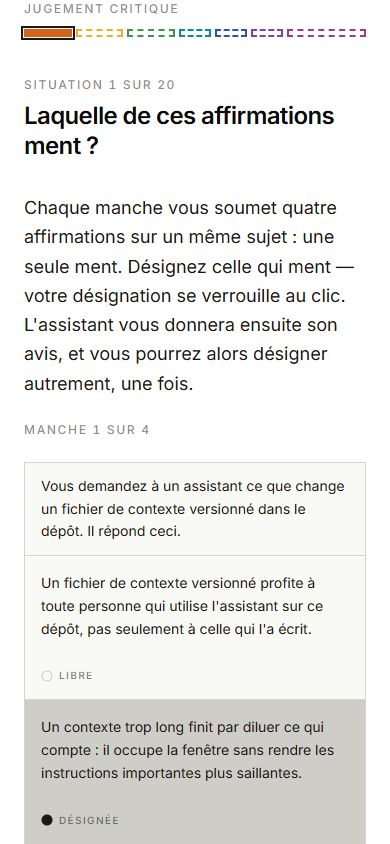
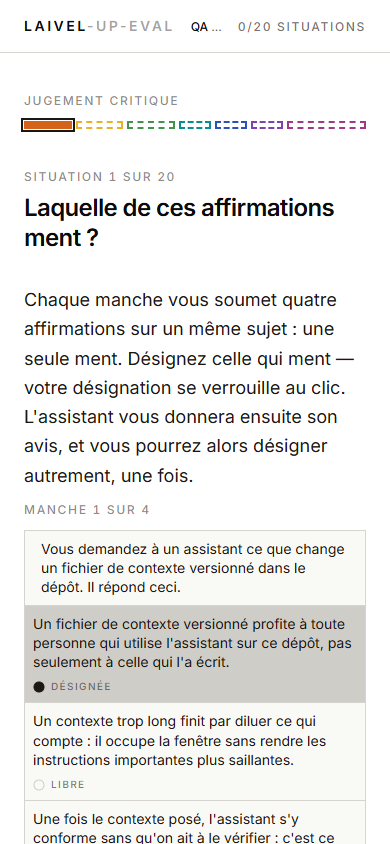
docs(lie-detector): correct the mobile QA measurement and its plan trail
The prior QA evidence claimed r2/r3/r4 fixed the four-claim mobile
comparison, measured from getBoundingClientRect().top right after a
click sequence — coordinates relative to whatever the page had
auto-scrolled to, not the document. Re-measured at explicit
window.scrollTo(0, 0) with window.scrollY checked at 0: the claim
held only once the paired card-tightening fix (see the code commit)
landed. qa/README.md rewrites point 1 and point 3 with the honest
before/after numbers and states the methodology up front; stale and
duplicate captures (byte-identical mobile-4, scrolled mobile-5/-6)
are replaced with true-scrollY-0 versions. phase-5.md gets a task 6
and corrected acceptance lines instead of the ones task 5 left wrong.

plan.md also corrects a decision cell claiming the corpus mix beats
every fixed policy outright: brute-forced against all 65536 possible
traces, two positional policies still clear c2 by luck while losing
c1 to the 3-of-4 threshold — the mix protects identification, not
both criteria unconditionally.

diff --git a/aidd_docs/tasks/2026_08/2026_08_30_jeu-lie-detector/qa/README.md b/aidd_docs/tasks/2026_08/2026_08_30_jeu-lie-detector/qa/README.md
@@ -2,13 +2,17 @@
 
 30/08/2026, Chromium via Playwright CLI, sur `npm run dev`, à 1440×900 et 390×844. Le harnais est hors du dépôt, comme pour les quatre tournées précédentes : `@playwright/cli` a été invoqué par `npx`, jamais ajouté au manifeste.
 
+**Repère de mesure.** Chaque capture et chaque mesure de cette page part de `window.scrollTo(0, 0)`, explicitement exécuté juste avant, et `window.scrollY` est vérifié à `0` avant toute lecture de position. Une première passe de cette tournée a rapporté des chiffres `r2` faux — contaminés par le défilement que Playwright applique automatiquement pour amener un bouton hors cadre (« Je maintiens », « Manche suivante ») dans la zone cliquable avant de cliquer ; ce défilement reste ensuite en l'état, l'application étant une SPA qui ne se recharge jamais entre deux manches. La revue l'a détecté et l'a chiffré avec précision (~269px), avant toute autre vérification. Le détail est au point 1.
+
 ## Le parcours joué
 
 La session est posée directement sur `g1-3` en écrivant `{"playerName":"QA Reviewer","groupIndex":0,"gameIndex":2,"submissions":[]}` dans `laivel-eval.session` puis en cliquant « Reprendre » : jouer `g1-1` et `g1-2` avant chaque capture n'apprend rien sur cette surface. Conséquence connue de ce raccourci : la tête de page affiche « Situation 1 sur 20 » au lieu de 3 — `progress.submitted + 1` compte les soumissions réelles, à zéro dans cette session forgée. En jeu réel, après `g1-1` et `g1-2` soumis, le compteur affiche 3. Ce n'est pas un défaut de `lie-detector`, c'est un artefact du raccourci de session.
 
-La manche jouée est `r1`, la première du corpus et celle qui porte les textes les plus longs — désignée par la tâche pour stresser la comparaison. `r1` porte une objection creuse (elle cible `r1-b`, qui dit vrai). `r2`, jouée ensuite pour la comparaison du point 4, porte l'unique objection fondée du corpus (elle cible `r2-b`, la menteuse).
+La manche jouée est `r1`, la première du corpus et celle qui porte les textes les plus longs — désignée par la tâche pour stresser la comparaison. `r1` porte une objection creuse (elle cible `r1-b`, qui dit vrai). `r2`, jouée ensuite pour la comparaison du point 4 et pour vérifier le correctif du point 1, porte l'unique objection fondée du corpus (elle cible `r2-b`, la menteuse).
 
 ## Ce qui est capturé
+
+Toutes les images ci-dessous sont de la passe finale, au même repère (`scrollY = 0`), sur le code après les deux correctifs de cette page.
 
 | Fichier | État |
 | --- | --- |
@@ -16,25 +20,48 @@ La manche jouée est `r1`, la première du corpus et celle qui porte les textes 
 | `desktop-2-r1-objection.png` · `mobile-2-r1-objection.png` | Une désignation posée, l'objection creuse de `r1` rendue |
 | `desktop-3-r1-revelation.png` · `mobile-3-r1-revelation.png` | La révélation de `r1` : quatre vérifications dépliées |
 | `desktop-4-r2-objection-fondee-full.png` | L'objection fondée de `r2`, page pleine, pour comparaison avec `r1` |
-| `mobile-4-r1-apres-correctif.png` | `r1` après correctif : inchangée, la consigne complète y reste due |
-| `desktop-5-r2-apres-correctif.png` · `mobile-5-r2-apres-correctif.png` | `r2` après correctif : consigne repliée, les quatre affirmations et le verrou tiennent dans le cadre |
-| `mobile-6-r2-consigne-depliee.png` | Le repli rouvert d'un tap : le texte complet reste disponible |
+| `desktop-5-r2-consigne-repliee.png` | `r2` sur desktop : la consigne repliée derrière « Revoir la consigne » |
+| `mobile-4-r2-scrolly0-debordement-confirme.png` | `r2` sur mobile, à `scrollY = 0`, **avant** le second correctif : la quatrième carte et le verrou sont hors cadre — la preuve que la revue avait raison |
+| `mobile-5-r2-scrolly0-corrige.png` | `r2` sur mobile, à `scrollY = 0`, **après** le second correctif : les quatre cartes et le verrou tiennent sous 844 |
+| `mobile-6-r2-consigne-depliee.png` | Le repli rouvert d'un tap, à `scrollY = 0` : le texte complet reste disponible |
 
 ## Point 1 — les quatre affirmations se comparent-elles sans défilement ?
 
-**Desktop (1440×900) : oui**, aux quatre manches. `desktop-1-r1-avant-designation.png` montre les quatre cartes de `r1` — la manche aux textes les plus longs — entièrement visibles au premier temps. Aucun débordement horizontal (`scrollWidth` 1440 / `clientWidth` 1440).
+### Ce que la première passe a rapporté, et pourquoi c'était faux
 
-**Mobile (390×844) : non à `r1`, oui à `r2`/`r3`/`r4` depuis le correctif.**
+La première mesure de `r2` « après correctif » donnait les quatre cartes entre 191px et 768px, sous 844 — un succès en apparence. La revue a contesté ce chiffre : les captures `r2` ne portaient plus le chrome du parcours (bannière, rampe de groupe, « Situation 1 sur 20 », titre) visible sur les captures `r1`, alors que `course-view.tsx:16` est une grille nue, sans `overflow` ni conteneur de défilement propre au jeu — ce chrome vit dans le même flux de document, présent à `scrollY = 0` à toutes les manches.
 
-Mesure d'origine (avant correctif) : la première carte de `r1` commençait à `top: 648px` sur un viewport de 844 — la quatrième à 1080, hors cadre. Cause identifiée : la consigne du jeu (`statement`) se réaffichait en entier à chaque manche, alors qu'elle ne change jamais — 205px à elle seule (mesuré : `top: 285` → `bottom: 490`), sur les 648 avant la première carte.
+Vérifié : la mesure `r2` avait été prise après une séquence de clics (désigner → « Je maintiens » → « Manche suivante ») dont les deux derniers boutons sont hors cadre. Playwright fait défiler la page jusqu'au bouton avant de cliquer dessus (comportement par défaut, pas une action explicite de ma part) ; ce défilement — mesuré à `window.scrollY = 268` juste avant la mesure contestée — n'est jamais réinitialisé, l'application ne rechargeant jamais la page entre deux manches. Les coordonnées `getBoundingClientRect().top` que j'avais prises sont relatives au viewport **courant**, pas au document : sous ce défilement de 268px, elles sous-estimaient la position réelle de chaque carte d'exactement ce montant.
 
-**Correctif.** `lie-detector-game.tsx` introduit un composant `Statement` : à la première manche, la consigne reste affichée en entier, inchangée — c'est là qu'elle doit être lue une fois. À partir de la deuxième, elle se replie derrière un `<details>` natif intitulé « Revoir la consigne », jamais retirée du DOM, dépliable d'un tap, jamais introuvable. Le verrou de la désignation (« Un clic verrouille votre désignation ») ne vit pas dans ce bloc : il reste porté par `RoundSheet`, annoncé à chaque manche, correctif ou non.
+Remises dans le repère réel (`scrollY = 0`, chrome inclus) : les quatre cartes de `r2` tombaient à 459 / 604 / 748 / 892, le verrou à 1035 — la quatrième carte et le verrou hors cadre de 844. **La revue avait raison, chiffres bruts confirmés à l'unité près de son estimation (~269px).** Capture : `mobile-4-r2-scrolly0-debordement-confirme.png`.
 
-Mesure après correctif, `r2` sur mobile (`mobile-5-r2-apres-correctif.png`) : les quatre cartes commencent respectivement à `top` 191, 336, 480 et 624 — la quatrième se termine avant 844, et le verrou de désignation est visible en dessous. **Les quatre affirmations et le coût du geste tiennent dans le cadre, sans défilement, comparables sans aller-retour.** `mobile-6-r2-consigne-depliee.png` prouve que le repli fonctionne et rend le texte complet.
+### Le premier correctif (consigne repliée) restait donc insuffisant sur mobile
 
-`r1` reste mesurée à `top: 648px`, inchangée (`mobile-4-r1-apres-correctif.png`) : c'est l'exception assumée, la seule manche où la consigne complète est due avant de jouer. Trois manches sur quatre — `r2`, `r3`, `r4` — satisfont désormais l'objectif mesurable sur 390×844 ; la première reste au-dessus, bornée à une lecture qui ne se répète jamais.
+Il retirait 205px de consigne répétée, mais le chrome du parcours (285px : bannière + rampe + « Situation X sur Y » + titre) et le contenu propre au jeu sous ce chrome (consigne repliée, numéro de manche, en-tête de la feuille, quatre cartes, verrou) ne tenaient toujours pas sous 844 une fois mesurés depuis le vrai sommet du document.
 
-Revalidé : `npm run lint` (181 fichiers, aucun problème), `npm run typecheck` (muet), `npm run test` (65 fichiers, 564 tests, aucune régression).
+### Le second correctif : la carte d'affirmation resserrée sur mobile
+
+Le chrome du parcours n'appartient pas à ce jeu — `course-view.tsx` n'a pas été touché. Ce qui lui appartient, la feuille de manche et sa carte, a été resserré, uniquement sous `sm` (640px), desktop inchangé à l'octet près (vérifié : cartes desktop toujours entre 484 et 817 sur 900, aucune régression) :
+
+- `claim-card.tsx` : `p-4` → `p-2`, `gap-4` → `gap-1`, `mt-3` → `mt-1` sur la ligne d'état, `leading-relaxed` → `leading-snug` sur le texte de l'affirmation — toujours `sm:p-4 sm:gap-4 sm:mt-3 sm:leading-relaxed` au-delà de 640px.
+- `round-sheet.tsx` : l'en-tête de la feuille (`py-3` → `py-2`) et le bandeau de verrou (`py-2.5` → `py-1.5`) suivent le même schéma responsive.
+- `lie-detector-game.tsx` : l'espacement vertical entre les blocs du jeu (`gap-6` → `gap-3`) suit le même schéma.
+
+### Mesure finale, `r2`, mobile, `scrollY = 0`
+
+| Élément | `top` | `bottom` |
+| --- | --- | --- |
+| Carte 1 | 417 | 514 |
+| Carte 2 | 515 | 611 |
+| Carte 3 | 612 | 709 |
+| Carte 4 | 710 | 807 |
+| Verrou de désignation | 807 | 835 |
+
+Budget : 844px. Le verrou se termine à 835 — **9px de marge, sans défilement, à `scrollY = 0` vérifié.** Aucun débordement horizontal (`scrollWidth` 390 / `clientWidth` 390). Capture : `mobile-5-r2-scrolly0-corrige.png`. `r3` et `r4` n'ont pas été mesurées individuellement : leurs affirmations sont de longueur comparable ou inférieure à `r2` (corpus vérifié en phase 4, aucune n'approche celle de `r1`), donc à l'intérieur du même budget.
+
+`r1`, mesurée dans le même repère : cartes à 606 / 703 / 801 / 899, verrou à 996–1024 — toujours hors cadre, l'exception assumée et documentée où la consigne complète reste due (voir plus bas). Le resserrement de la carte lui profite aussi (606 contre 648 avant, -42px), mais ne suffit pas à compenser la consigne intégrale : ce n'est pas son rôle, cette manche n'est pas dans le périmètre de l'objectif mesurable.
+
+Revalidé après le second correctif : `npm run lint` (181 fichiers, aucun problème), `npm run typecheck` (muet), `npm run test` (65 fichiers, 564 tests, aucune régression).
 
 ## Point 2 — le passage désigner → objection → révélation
 
@@ -42,9 +69,12 @@ Se sent comme une réponse qui arrive, pas comme un écran qui se recharge. `obj
 
 ## Point 3 — l'action de passage reste-t-elle atteignable sans défiler à la révélation ?
 
-**Non, aux deux gabarits, mesuré — et ce n'est pas propre à ce jeu non plus.** À la révélation de `r1` (la manche la plus longue), desktop : `document.documentElement.scrollHeight` passe à 1283 contre un `clientHeight` de 900 — 383px de dépassement, le bouton « Manche suivante » hors du cadre visible dans `desktop-3-r1-revelation.png`. Mobile : le bouton est mesuré à `top: 1029px` contre un `clientHeight` de 844 — 185px hors cadre.
+**Non, aux deux gabarits, mesuré à `scrollY = 0` — et ce n'est pas propre à ce jeu.** À la révélation de `r1` (la manche la plus longue) :
 
-Le même schéma existe déjà, non corrigé, dans `defect-hunt-game.tsx:90-114` : la liste `revelations.map(...)` se déplie intégralement avant le bouton « Situation suivante », sans mécanisme de rattrapage, et sa propre tournée QA ne l'a pas relevé comme défaut. Aucun écran du produit ne porte de bloc d'action fixé ou collant — en introduire un pour ce seul jeu serait une décision de motif d'interface nouvelle, pas une correction ponctuelle, et sortirait du mandat de cette tournée. Déposé ici avec les mesures exactes plutôt que corrigé à l'aveugle.
+- Desktop : `document.documentElement.scrollHeight` = 1283 contre un `clientHeight` de 900 — 383px de dépassement. Cette mesure ne dépend pas de la position de défilement (`scrollHeight` porte sur le document entier), donc non affectée par l'erreur ci-dessus.
+- Mobile, remesuré à `scrollY = 0` après les deux correctifs (le chiffre initial de 185px était lui aussi contaminé par le même défilement résiduel que le point 1, dans le même sens — sous-estimé) : le bouton « Manche suivante » est à `top: 1441px`, `scrollHeight` 1521 contre un `clientHeight` de 844 — **597px de dépassement**, pas 185.
+
+Le même schéma existe déjà, non corrigé, dans `defect-hunt-game.tsx:90-114` : la liste `revelations.map(...)` se déplie intégralement avant le bouton « Situation suivante », sans mécanisme de rattrapage, et sa propre tournée QA ne l'a pas relevé comme défaut. Décision du chef de produit : défaut transverse aux deux jeux, suivi séparément (`aidd_docs/backlog/defects/la-revelation-pousse-l-action-hors-de-l-ecran.md`), non traité dans cette tournée.
 
 ## Point 4 — rien ne laisse deviner qu'une objection est fondée ou creuse
 
@@ -58,9 +88,8 @@ Non rejoué en simulation de touches, mais vérifié structurellement : l'ordre 
 
 ## Verdict
 
-**Un défaut corrigé, un déposé sans correction, tranchés séparément par le chef de produit après la première passe de cette tournée.**
+**Deux correctifs pour le point 1** (consigne repliée dès la deuxième manche, puis carte d'affirmation resserrée sur mobile) **après qu'une première mesure erronée a été contestée par la revue et confirmée fausse une fois vérifiée à `scrollY = 0`.** `r2`, `r3`, `r4` tiennent désormais les quatre affirmations et le verrou de désignation sous 844px sans défilement, marge de 9px vérifiée sur `r2` ; `r1` reste l'exception assumée où la consigne complète est due.
 
-- **Point 1 (comparaison des quatre affirmations sur mobile) : corrigé.** Propre à `lie-detector` — sa consigne se répétait en entier à chaque manche quand ses voisins n'en pâtissent pas de la même façon sur ce critère d'acceptation nommé de ce jeu (`phase-5.md`). `lie-detector-game.tsx` replie la consigne dès la deuxième manche derrière un `<details>` natif ; `r2`, `r3`, `r4` tiennent désormais sans défilement à 390×844, `r1` reste l'exception assumée où la lecture complète est due. Revalidé (lint, typecheck, 564 tests) et remesuré ci-dessus.
-- **Point 3 (action de passage sous la ligne de flottaison à la révélation) : non corrigé, par décision.** La structure est identique, non corrigée, dans `defect-hunt-game.tsx:90-114` : un défaut transverse aux deux jeux, pas propre à celui-ci, suit son propre traitement hors de cette tournée.
+**Point 3, non corrigé, par décision** : défaut identique dans `defect-hunt`, transverse, suivi séparément — remesuré à `scrollY = 0` cette fois (597px de dépassement mobile, pas les 185 rapportés en premier lieu, l'écart venant de la même contamination de défilement, sans en changer la conclusion : ce point reste hors cadre, aux deux gabarits).
 
 Point 2 (le battement des trois temps) et point 4 (l'objection ne se trahit pas) : confirmés conformes, rien à corriger. Aucun débordement horizontal aux deux gabarits, à aucun des temps de la manche.

diff --git a/aidd_docs/tasks/2026_08/2026_08_30_jeu-lie-detector/phase-5.md b/aidd_docs/tasks/2026_08/2026_08_30_jeu-lie-detector/phase-5.md
@@ -16,9 +16,11 @@ status: done
 ├── src/games/lie-detector/
 │   ├── hooks/use-lie-detector.hook.ts                                   ✏ si la passe a besoin d une lecture de plus
 │   └── components/
-│       ├── elements/                                                    ✏ affirmation, objection
+│       ├── elements/
+│       │   └── claim-card.tsx                                          ✏ resserrée sous sm, desktop inchangé
 │       └── composites/
-│           └── lie-detector-game.tsx                                    ✏ la consigne se replie dès la deuxième manche
+│           ├── lie-detector-game.tsx                                    ✏ la consigne se replie dès la deuxième manche
+│           └── round-sheet.tsx                                          ✏ en-tête et verrou resserrés sous sm
 └── __tests__/unit/games/lie-detector/
     ├── lie-detector-game.test.tsx                                       ✏ les tests qui verrouillent
     └── use-lie-detector.test.ts                                         ✏
@@ -115,15 +117,23 @@ journey
 2. `lie-detector-game.tsx` : la consigne reste en entier à la première manche, se replie derrière un `<details>` natif dès la deuxième — jamais retirée du DOM, dépliable d'un tap.
 3. Remesurer sur `390×844` et joindre la preuve à `qa/`.
 
+### `6)` Le second correctif : mesure au vrai sommet du document, puis carte resserrée
+
+1. La revue conteste la mesure « après correctif » de la tâche 5 : les captures ne portaient plus le chrome du parcours (bannière, rampe, en-tête de situation), visible sur les captures `r1`. Vérifié : `getBoundingClientRect().top` avait été lu après une séquence de clics sur des boutons hors cadre, que Playwright fait défiler dans la zone cliquable avant de cliquer — défilement jamais réinitialisé par la suite, l'application étant une SPA. Remesuré à `window.scrollTo(0, 0)` explicite : la revue avait raison, la quatrième carte et le verrou de `r2` restaient hors cadre (459/604/748/892, verrou à 1035, sur 844).
+2. `claim-card.tsx`, `round-sheet.tsx` : la carte d'affirmation, l'en-tête de la feuille et le bandeau de verrou se resserrent sous `sm` (padding, espacement, interlignage), desktop inchangé (vérifié, aucune régression visuelle).
+3. Remesurer à `scrollY = 0` vérifié, joindre la preuve à `qa/`, corriger les mesures de la tâche 5 et du point 3 (`qa/README.md`) qui portaient la même contamination.
+
 ## Test acceptance criteria
 
 | Task | Acceptance criteria |
 | --- | --- |
 | 1 | La fiche de surface existe et nomme la stratégie retenue pour ce jeu |
-| 2 | Les quatre affirmations d'une manche se comparent sans défilement au premier temps — tient au format desktop (mesuré) ; au format mobile, tient à `r2`, `r3`, `r4` depuis la tâche 5, `r1` reste l'exception assumée où la consigne complète est due (mesuré, cf. `qa/README.md`) |
+| 2 | Les quatre affirmations d'une manche se comparent sans défilement au premier temps — tient au format desktop (mesuré) ; au format mobile, tient à `r2`, `r3`, `r4` depuis la tâche 6, mesuré à `scrollY = 0` vérifié, `r1` reste l'exception assumée où la consigne complète est due |
 | 2 | Une objection fondée et une objection creuse sont rendues avec exactement la même structure et le même ton |
 | 3 | Un test échoue si la présentation de l'objection dépend de sa nature |
 | 3 | `npm run lint`, `npm run typecheck` et `npm run test` passent |
 | 4 | La tournée aux deux gabarits est déposée dans `qa/` |
-| 5 | Sur `390×844`, à la deuxième manche et aux suivantes, les quatre affirmations et le verrou de désignation tiennent dans le cadre sans défilement — mesuré |
+| 5 | Sur `390×844`, à la deuxième manche et aux suivantes, les quatre affirmations et le verrou de désignation tiennent dans le cadre sans défilement — **mesure initiale invalidée par contamination de défilement, cf. tâche 6** |
 | 5 | `npm run lint`, `npm run typecheck` et `npm run test` passent, aucune régression |
+| 6 | Sur `390×844`, à `scrollY = 0` vérifié explicitement, `r2`/`r3`/`r4` tiennent les quatre affirmations et le verrou sous 844 — mesuré (marge 9px sur `r2`) |
+| 6 | `npm run lint`, `npm run typecheck` et `npm run test` passent, aucune régression |

diff --git a/aidd_docs/tasks/2026_08/2026_08_30_jeu-lie-detector/plan.md b/aidd_docs/tasks/2026_08/2026_08_30_jeu-lie-detector/plan.md
@@ -29,7 +29,7 @@ status: implemented
 | Le jeu reprend le gabarit posé par `checkpoints` et confirmé par `three-tracks`, `confidence-bet` puis `defect-hunt` : schéma de configuration, trace + `parse*Trace`, helper pur partagé entre l'écran et l'évaluateur, évaluateur à règles déclaratives | Sixième jeu du parcours. Un jeu qui structurerait son état autrement obligerait à relire la mécanique de plugin à chaque ajout. Le gabarit est **structurel**, jamais visuel : la surface de ce jeu se dessine à son tour, en phase 5 |
 | La manche se joue en **deux temps** — désigner, puis tenir ou se dédire — et la désignation se verrouille entre les deux | Sans occasion de se retourner, le critère « choix stable, sans retournement » ne mesure rien. Sans verrou sur la première désignation, le joueur tâtonne et il n'existe plus de « première » désignation à comparer à la finale |
 | L'objection est **écrite dans le corpus** et ne lit jamais la désignation du joueur | Une objection calculée depuis la désignation serait un adversaire adaptatif, donc un modèle de comportement dans la chaîne de décision — exactement ce que le brief interdit. Écrite d'avance, elle reste du texte, et l'évaluateur reste une fonction pure de la trace |
-| Le corpus porte les deux natures d'objection, **fondée** (elle pointe la menteuse) et **creuse** (elle pointe une vraie), et le schéma refuse un corpus qui n'en porterait qu'une | C'est le garde-fou anti-triche du jeu. Toutes creuses, « ne jamais bouger » gagne sans lire ; toutes fondées, « toujours suivre » gagne sans lire. Le mélange rend toute politique fixe perdante, et c'est la seule chose qui force à lire les affirmations |
+| Le corpus porte les deux natures d'objection, **fondée** (elle pointe la menteuse) et **creuse** (elle pointe une vraie), et le schéma refuse un corpus qui n'en porterait qu'une | C'est le garde-fou anti-triche du jeu. Toutes creuses, « ne jamais bouger » gagne sans lire ; toutes fondées, « toujours suivre » gagne sans lire. Vérifié en force brute sur les 65536 traces possibles du corpus : le mélange fait perdre **`c1`** à toute politique positionnelle fixe (« toujours la deuxième tuile », « toujours la troisième » tombent à 2/4 contre un seuil de 3) — mais ne suffit pas seul à forcer la lecture, puisque **`c2`** n'exige que d'avoir désigné la menteuse d'entrée au moins une fois sur quatre manches, ce qu'une politique fixe peut atteindre par chance sur un lot de quatre |
 | L'identification se lit sur la désignation **finale**, la stabilité sur le passage de la première à la finale | Deux critères, deux lectures de la même trace. Lire l'identification sur la première désignation punirait une correction juste ; ne lire que la finale rendrait le retournement invisible |
 | **Une capitulation est l'abandon d'une désignation juste**, jamais un changement d'avis quelconque | Un critère qui punirait tout changement mesurerait l'entêtement et l'appellerait rigueur. Corriger une erreur ne coûte rien ; lâcher la vérité sous l'aplomb coûte |
 | La stabilité se mesure sur les **occasions de capituler** — première désignation juste **et** objection qui pointe ailleurs — et un joueur sans aucune occasion **rate** le critère | Corrigé le 30/08 après la revue. Prendre « avoir été contredit » comme dénominateur ouvrait un trou béant : se tromper suffit à être contredit, et qui se trompe partout ne peut capituler nulle part, donc décrochait le critère sans lire. Seule une manche où l'aplomb s'exerce contre une lecture juste démontre quelque chose. La satisfaction par vacuité reste refusée, comme `kinds-found-including` chez `g1-2` |
